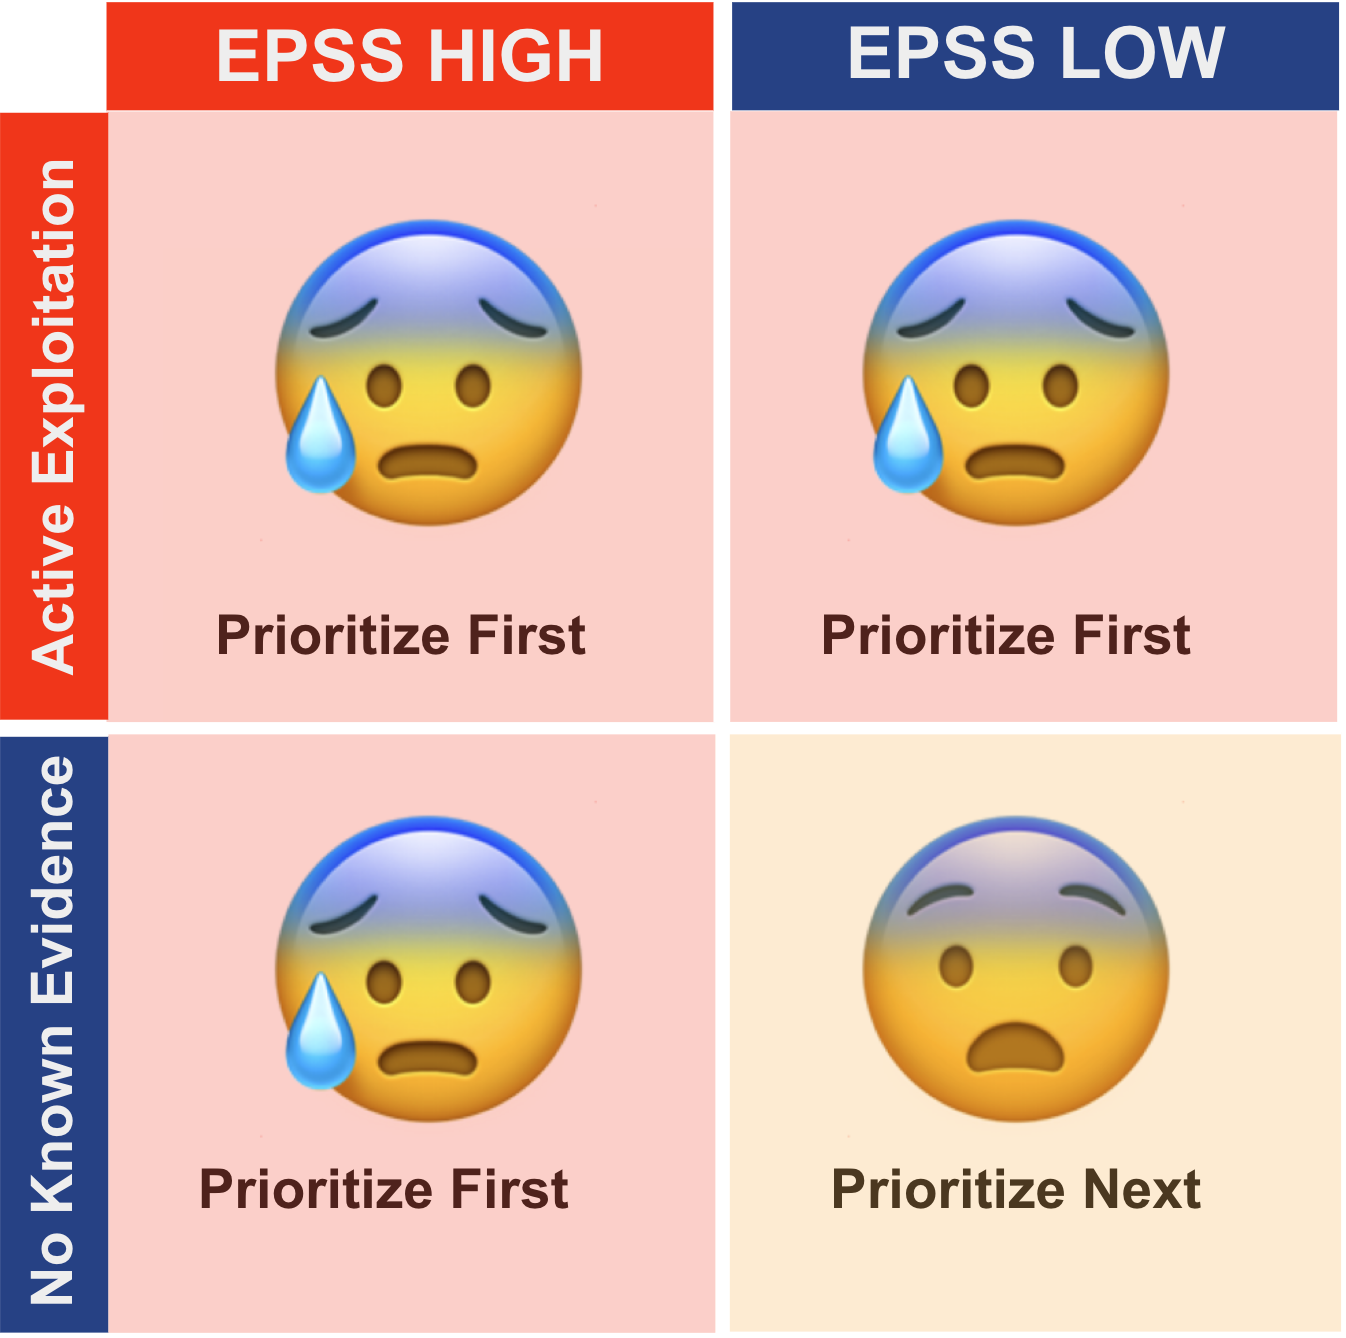
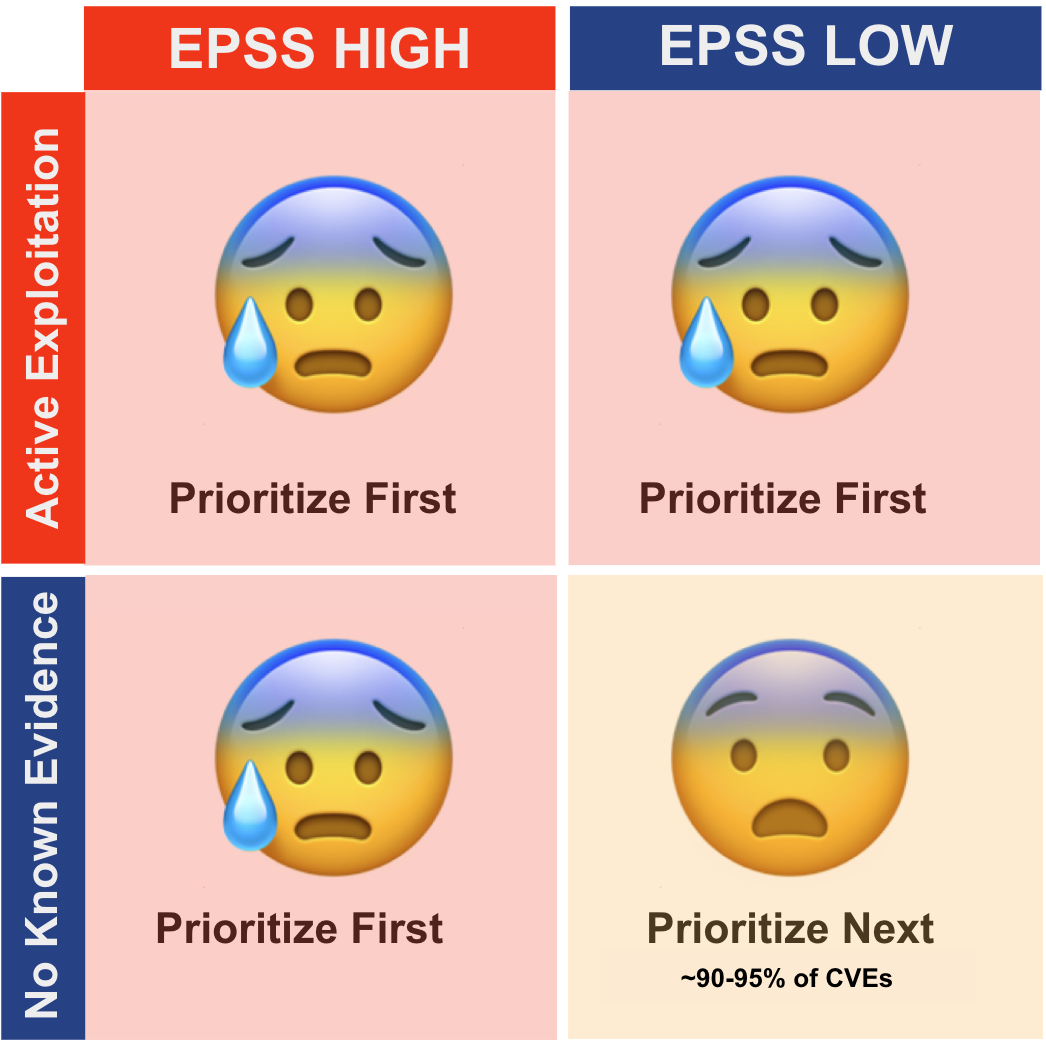
update worry quadrant with %

diff --git a/docs/epss/Introduction_to_EPSS.md b/docs/epss/Introduction_to_EPSS.md
@@ -80,7 +80,7 @@ style="letter-spacing: 0.0px;">https://www.first.org/cvss/</a>.
 
 <figure markdown>
   ![](../assets/images/worry_quadrant.png){width="600"}
-  <figcaption> Using EPSS with Known Exploitation</figcaption>
+  <figcaption> Using EPSS with Known Exploitation. <br>Prioritize First (Pink) accounts for ~~5-10% of CVEs, Prioritize Next (Orange) ~90-95%</figcaption>
 </figure>
 
 
